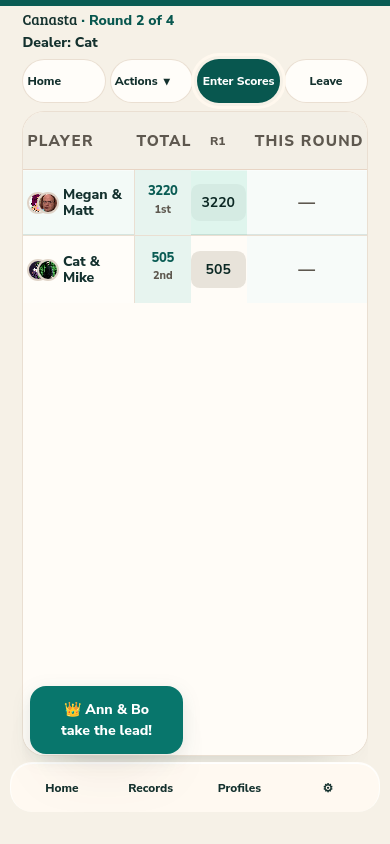
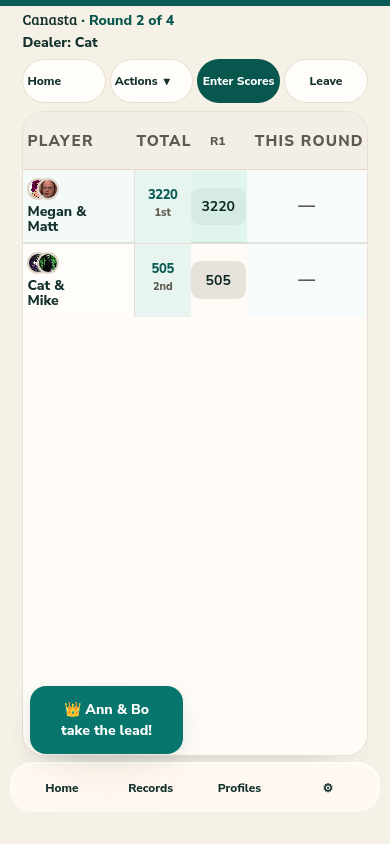
Keep the phone wheel inside the existing player column.
The Spin ready control stays on the right and shrinks on a phone, so the player column does not widen. A followed wheel mark stays on its hand, the round cells stay readable, and a lead toast that would cover a total stops short of that column.

diff --git a/public/assets/slice2.css b/public/assets/slice2.css
@@ -5359,6 +5359,9 @@ html.slice2-tv #scorecard-capture.scorecard-fit-cols table.scorecard-table {
     font-size: 1.15rem !important;
   }
   html.slice2-tv #scorecard-capture td.scorecard-col-player .flex.items-center {
+    flex-wrap: wrap;
+  }
+  html.slice2-tv #scorecard-capture td.scorecard-col-player:has(.wheel-badge) .flex.items-center {
     flex-wrap: nowrap;
     align-items: center;
     min-width: 0;
@@ -5367,9 +5370,14 @@ html.slice2-tv #scorecard-capture.scorecard-fit-cols table.scorecard-table {
     margin-left: auto;
     flex: 0 0 auto;
     max-width: none;
-    font-size: 0.68rem;
-    padding: 0.15rem 0.35rem;
-    min-height: 28px;
+    font-size: 0.6rem;
+    padding: 0.04rem 0.22rem;
+    gap: 0.1rem;
+    min-height: 24px;
+  }
+  html.slice2-tv #scorecard-capture .wheel-badge-icon {
+    width: 0.7rem;
+    height: 0.7rem;
   }
 }
 
@@ -5392,7 +5400,7 @@ html.slice2-tv #round-correction-modal .bp-modal-panel {
 }
 
 /* The wheel control stays on the right of the player cell. The name ends before it. */
-html.slice2-tv #scorecard-capture td.scorecard-col-player > .flex {
+html.slice2-tv #scorecard-capture td.scorecard-col-player:has(.wheel-badge) > .flex {
   flex-wrap: nowrap !important;
   align-items: center !important;
   min-width: 0;
@@ -5452,18 +5460,14 @@ html.slice2-tv .s2-standing .wheel-badge {
   flex: 0 0 auto !important;
 }
 @media (max-width: 760px) {
-  html.slice2-tv #scorecard-capture:has(.wheel-badge) .scorecard-table.scorecard-table--identity-total td.scorecard-col-player,
-  html.slice2-tv #scorecard-capture:has(.wheel-badge) .scorecard-table.scorecard-table--identity-total th.scorecard-col-player,
-  html.slice2-tv #scorecard-capture.scorecard-roomy-identity:has(.wheel-badge) .scorecard-table.scorecard-table--identity-total td.scorecard-col-player,
-  html.slice2-tv #scorecard-capture.scorecard-roomy-identity:has(.wheel-badge) .scorecard-table.scorecard-table--identity-total th.scorecard-col-player {
-    width: 13.6rem !important;
-    min-width: 13.6rem !important;
-    max-width: 13.6rem !important;
-  }
   html.slice2-tv #scorecard-capture .wheel-badge {
-    font-size: 0.68rem !important;
-    padding: 0.1rem 0.4rem !important;
-    min-height: 28px !important;
-    gap: 0.2rem !important;
+    font-size: 0.6rem !important;
+    padding: 0.04rem 0.22rem !important;
+    min-height: 24px !important;
+    gap: 0.1rem !important;
+  }
+  html.slice2-tv #scorecard-capture .wheel-badge-icon {
+    width: 0.7rem !important;
+    height: 0.7rem !important;
   }
 }

diff --git a/public/index.html b/public/index.html
@@ -11704,9 +11704,18 @@ button.dealer-name-indicator .dealer-player-label {
     let width;
     if(phone){
       const rounds=[...card.querySelectorAll('thead th.scorecard-round-th')].filter(el=>getComputedStyle(el).display!=='none'&&!el.classList.contains('scorecard-round--hidden'));
-      const guard=rounds.length>=3?rounds[2]:rounds[rounds.length-1];
-      const guardLeft=guard?guard.getBoundingClientRect().left:box.left+box.width*0.55;
-      width=Math.max(72, Math.round(Math.min(guardLeft-8, box.right-8)-left));
+      const roundGuard=rounds.length>=3?rounds[2]:rounds[rounds.length-1];
+      const roundLeft=roundGuard?roundGuard.getBoundingClientRect().left:box.right;
+      const wide=Math.max(72, Math.round(Math.min(roundLeft-8, box.right-8)-left));
+      const toastTop=window.innerHeight-bottom-56;
+      const hitsTotal=[...card.querySelectorAll('.scorecard-total-value')].some(el=>{
+        const band=el.getBoundingClientRect();
+        return band.width>8&&band.bottom>toastTop&&band.top<window.innerHeight-bottom&&band.left<left+wide;
+      });
+      const total=card.querySelector('thead th.scorecard-col-total, td.scorecard-total-cell');
+      const totalLeft=total?total.getBoundingClientRect().left:roundLeft;
+      const narrow=Math.max(72, Math.round(Math.min(totalLeft-8, box.right-8)-left));
+      width=hitsTotal?narrow:wide;
     }else{
       width=Math.max(72, Math.round(box.right-8-left));
     }

diff --git a/docs/solutions/bs-polish.md b/docs/solutions/bs-polish.md
@@ -1,6 +1,6 @@
 # Wheel, comeback name, and the Canasta sum
 
-The wheel control belongs on the right of the player cell. The name ends before it. The name fitter has to subtract the badge, or the name paints through "Spin ready". On a phone, the player column has to widen enough for the name and the control. Round columns stay in the scroller.
+The wheel control belongs on the right of the player cell. The name ends before it. The name fitter has to subtract the badge, or the name paints through "Spin ready". On a phone the badge shrinks and stays in that same spot. Widening the player column hides the hand a wheel followed and squeezes the round cells, so the column keeps its existing width.
 
 A comeback label uses the shelf name from `BPGGames.displayName`. Hand and Foot reads Canasta. A team that was last at halfway keeps both partners on the row.
 
